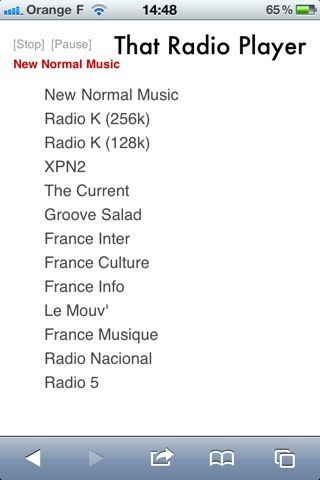
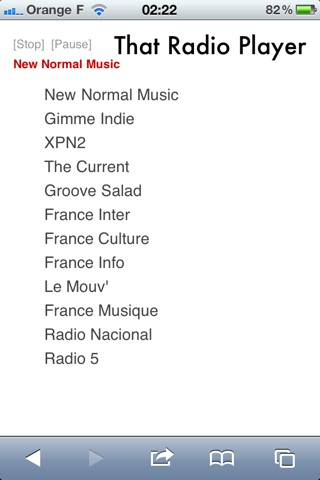
Added Gimme Indie, removed Radio K

diff --git a/index.html b/index.html
@@ -25,18 +25,17 @@
 <!-- Radio data -->
 <ul>
   <li><a href="#" id="1" onclick="player('http://173.201.35.77:8000/listen.pls',1);">New Normal Music</a></li>
-  <li><a href="#" id="2" onclick="player('http://radiokstreams.cce.umn.edu:8256/listen.pls',2);">Radio K (256k)</a></li>
-  <li><a href="#" id="3" onclick="player('http://radiokstreams.cce.umn.edu:8128/listen.pls',3);">Radio K (128k)</a></li>
-  <li><a href="#" id="5" onclick="player('http://yrockhi.streamguys.net/listen.pls',5);">XPN2</a></li>
+  <li><a href="#" id="2" onclick="player('http://www.gimmeindie.se/stream',2);">Gimme Indie</a></li>
+  <li><a href="#" id="3" onclick="player('http://yrockhi.streamguys.net/listen.pls',3);">XPN2</a></li>
   <li><a href="#" id="4" onclick="player('http://minnesota.publicradio.org/tools/play/streams/the_current.pls',4);">The Current</a></li>
-  <li><a href="#" id="6" onclick="player('http://somafm.com/groovesalad130.pls',6);">Groove Salad</a></li>
-  <li><a href="#" id="7" onclick="player('http://www.tv-radio.com/station/france_inter_mp3/france_inter_mp3-128k.m3u',7);">France Inter</a></li>
-  <li><a href="#" id="8" onclick="player('http://www.tv-radio.com/station/france_culture_mp3/france_culture_mp3-128k.m3u',8);">France Culture</a></li>
-  <li><a href="#" id="9" onclick="player('http://www.tv-radio.com/station/france_info/france_info.m3u',9);">France Info</a></li>
-  <li><a href="#" id="10" onclick="player('http://www.tv-radio.com/station/le_mouv_mp3/le_mouv_mp3-128k.m3u',10);">Le Mouv'</a></li>
-  <li><a href="#" id="11" onclick="player('http://www.tv-radio.com/station/france_musique_mp3/france_musique_mp3-128k.m3u',11);">France Musique</a></li>
-  <li><a href="#" id="12" onclick="player('http://radio1.rtve.stream.flumotion.com/rtve/radio1.mp3.m3u',12);">Radio Nacional</a></li>
-  <li><a href="#" id="13" onclick="player('http://radio5.rtve.stream.flumotion.com/rtve/radio5.mp3.m3u',13);">Radio 5</a></li>
+  <li><a href="#" id="5" onclick="player('http://somafm.com/groovesalad130.pls',5);">Groove Salad</a></li>
+  <li><a href="#" id="6" onclick="player('http://www.tv-radio.com/station/france_inter_mp3/france_inter_mp3-128k.m3u',6);">France Inter</a></li>
+  <li><a href="#" id="7" onclick="player('http://www.tv-radio.com/station/france_culture_mp3/france_culture_mp3-128k.m3u',7);">France Culture</a></li>
+  <li><a href="#" id="8" onclick="player('http://www.tv-radio.com/station/france_info/france_info.m3u',8);">France Info</a></li>
+  <li><a href="#" id="9" onclick="player('http://www.tv-radio.com/station/le_mouv_mp3/le_mouv_mp3-128k.m3u',9);">Le Mouv'</a></li>
+  <li><a href="#" id="10" onclick="player('http://www.tv-radio.com/station/france_musique_mp3/france_musique_mp3-128k.m3u',10);">France Musique</a></li>
+  <li><a href="#" id="11" onclick="player('http://radio1.rtve.stream.flumotion.com/rtve/radio1.mp3.m3u',11);">Radio Nacional</a></li>
+  <li><a href="#" id="12" onclick="player('http://radio5.rtve.stream.flumotion.com/rtve/radio5.mp3.m3u',12);">Radio 5</a></li>
 </ul>
 
 </body>
